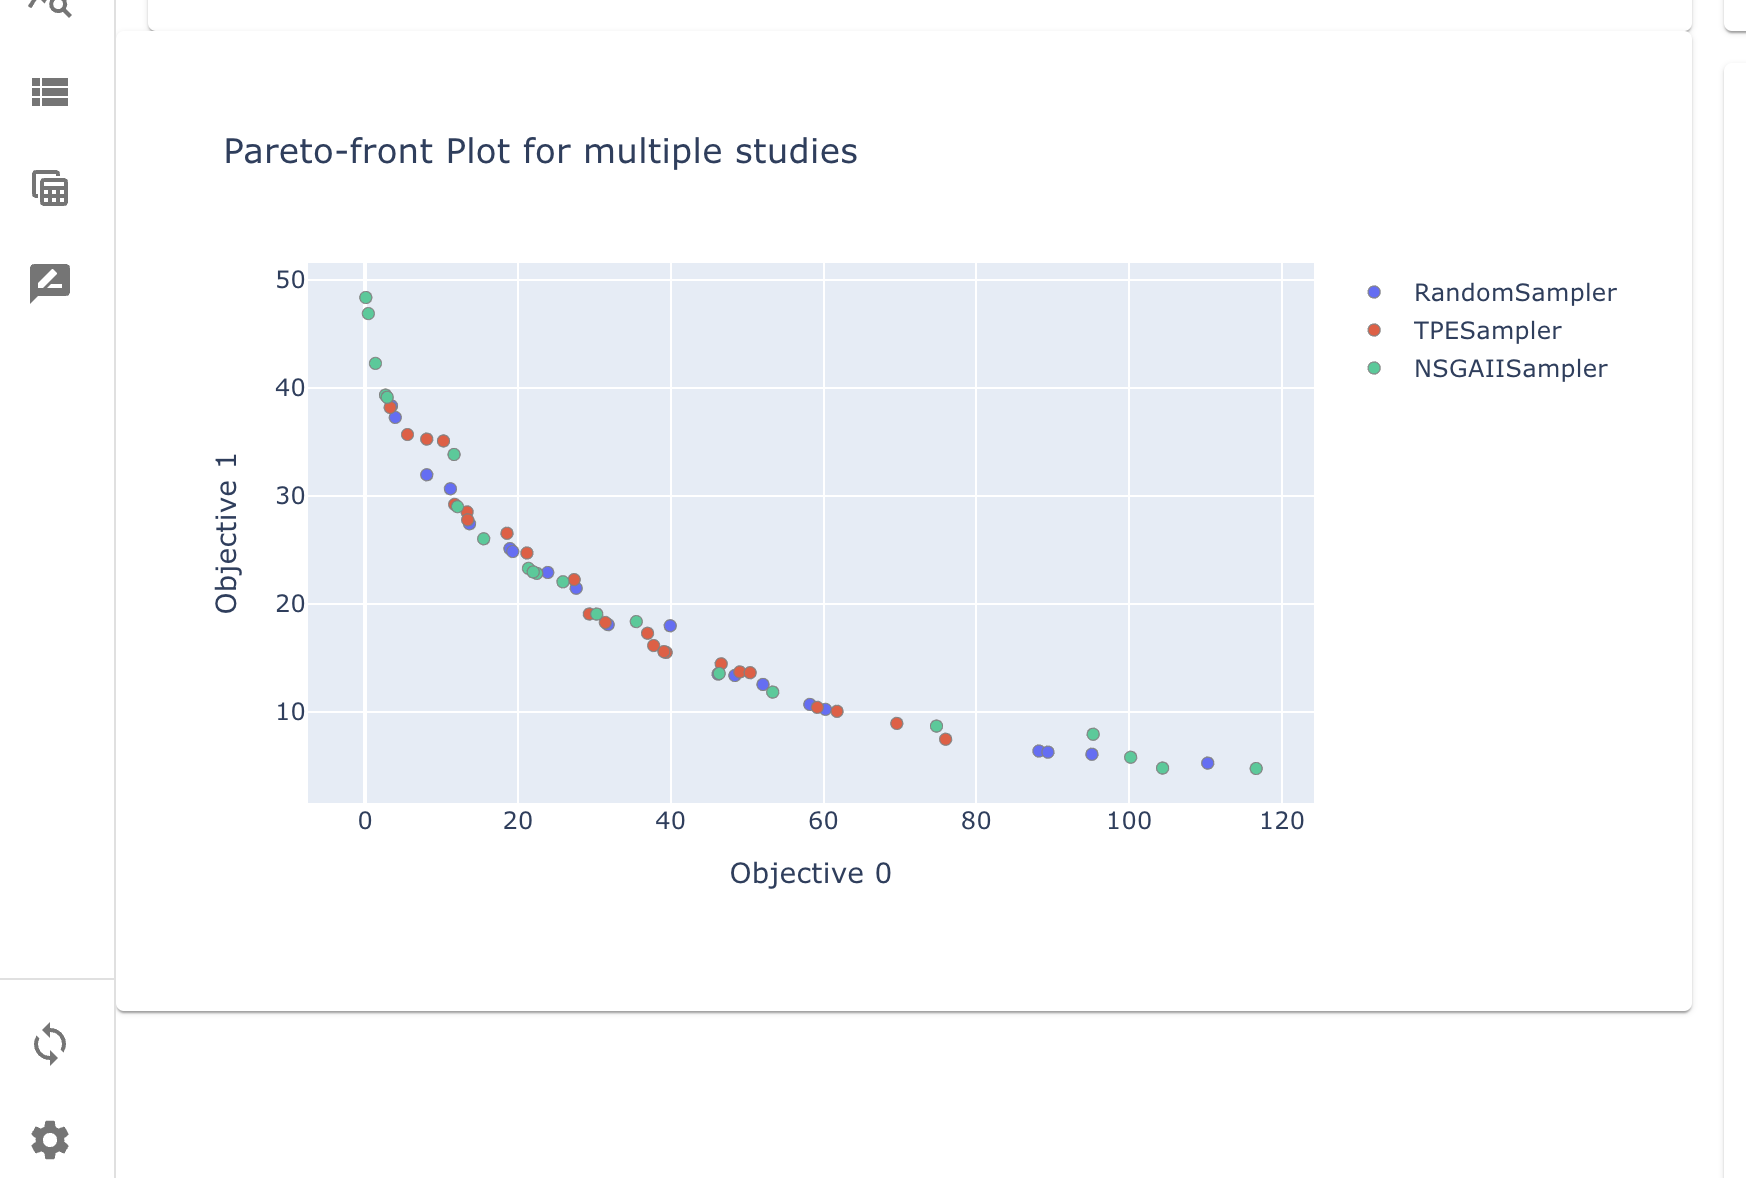
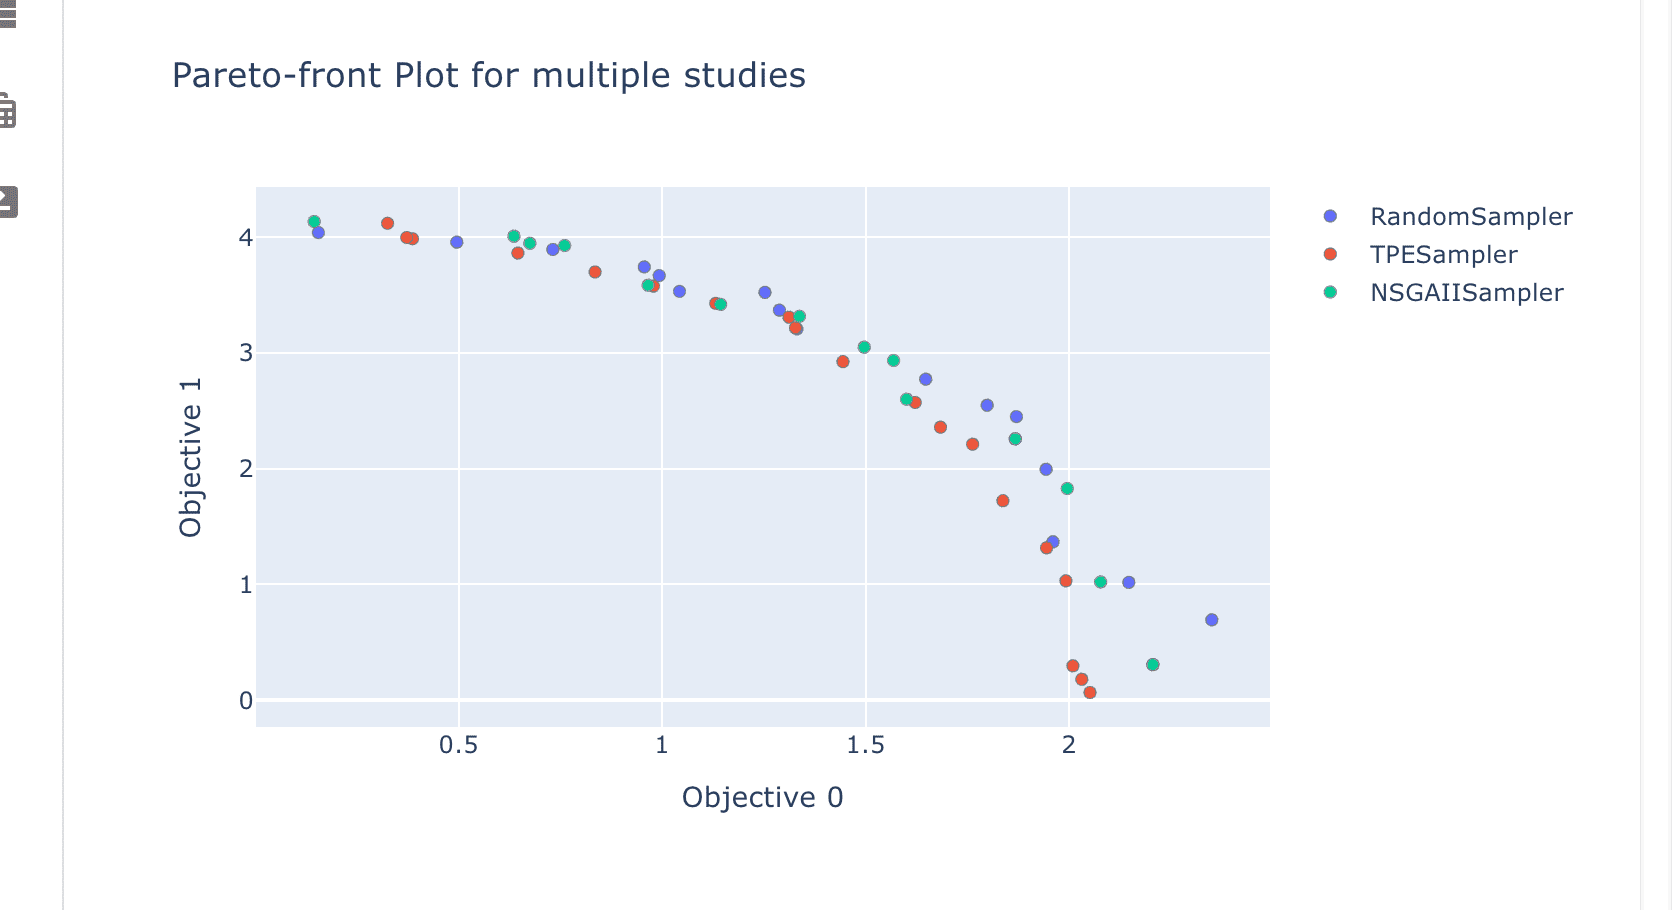
fix for feedbacks

diff --git a/docs/source/tutorials/plot-in-optuna-dashboard.rst b/docs/source/tutorials/plot-in-optuna-dashboard.rst
@@ -1,16 +1,16 @@
 Tutorial: How to Plot in Optuna-Dashboard
 =========================================
 
-In this tutorial, you can learn how to display plots in `Optuna-Dashboard <https://optuna-dashboard.readthedocs.io/en/latest/index.html>`_.
+In this tutorial, we will explain how to display plots in `Optuna-Dashboard <https://optuna-dashboard.readthedocs.io/en/latest/index.html>`_.
 
-You can use the function `optuna_dashboard.save_plotly_graph_object <https://optuna-dashboard.readthedocs.io/en/latest/_generated/optuna_dashboard.save_plotly_graph_object.html#optuna_dashboard.save_plotly_graph_object>`_ 
+`optuna_dashboard.save_plotly_graph_object <https://optuna-dashboard.readthedocs.io/en/latest/_generated/optuna_dashboard.save_plotly_graph_object.html#optuna_dashboard.save_plotly_graph_object>`__ can be used 
 to integrate and display plots generated by Optunahub modules in Optuna-Dashboard.
 
 
 Preparation
 -----------
 
-First, ensure the necessary packages are installed by executing the following command in your terminal:
+First, ensure the necessary packages are installed by executing the following command:
 
 .. code-block:: console
 
@@ -19,7 +19,7 @@ First, ensure the necessary packages are installed by executing the following co
 Example
 -------
 
-We are going to use `Plot Pareto Front for Multiple Studies <https://hub.optuna.org/visualization/plot_pareto_front_multi/>`_  as example.
+To illustrate an example, we use `The WFG Problem Collection <https://hub.optuna.org/benchmarks/wfg/>`__ and `Plot Pareto Front for Multiple Studies <https://hub.optuna.org/visualization/plot_pareto_front_multi/>`__.
 
 
 .. code-block:: python
@@ -28,15 +28,8 @@ We are going to use `Plot Pareto Front for Multiple Studies <https://hub.optuna.
     import optunahub
     from optuna_dashboard import save_plotly_graph_object
 
-
-    def objective(trial: optuna.Trial) -> tuple[float, float]:
-        x = trial.suggest_float("x", 0, 5)
-        y = trial.suggest_float("y", 0, 3)
-
-        v0 = 4 * x**2 + 4 * y**2
-        v1 = (x - 5) ** 2 + (y - 5) ** 2
-        return v0, v1
-
+    wfg = optunahub.load_module("benchmarks/wfg")
+    wfg4 = wfg.Problem(function_id=4, n_objectives=2, dimension=3, k=1)
 
     samplers = [
         optuna.samplers.RandomSampler(),
@@ -44,14 +37,15 @@ We are going to use `Plot Pareto Front for Multiple Studies <https://hub.optuna.
         optuna.samplers.NSGAIISampler(),
     ]
     studies = []
+
     for sampler in samplers:
         study = optuna.create_study(
             sampler=sampler,
-            study_name=f"{sampler.__class__.__name__}",
-            directions=["minimize", "minimize"],
-            storage=STORAGE_URL,
+            study_name=sampler.__class__.__name__,
+            directions=wfg4.directions,
+            storage="sqlite:///db.sqlite3",
         )
-        study.optimize(objective, n_trials=50)
+        study.optimize(wfg4, n_trials=100)
         studies.append(study)
 
     m = optunahub.load_module(
@@ -59,15 +53,16 @@ We are going to use `Plot Pareto Front for Multiple Studies <https://hub.optuna.
     )
     fig = m.plot_pareto_front(studies)
 
-    save_plotly_graph_object(studies[0], fig)
+    for study in studies:
+        save_plotly_graph_object(study, fig)
 
-Execute this, then start the Optuna-Dashboard by running the following command:
+After running this code, launch the Optuna-Dashboard by the following command:
 
 .. code-block:: console
 
-    $ optuna-dashboard STORAGE_URL
+    $ optuna-dashboard sqlite:///db.sqlite3
 
-Then, visit the page of the study you saved the plot.
+Then, go to one of the study pages.
 You can see the plot in the dashboard like the image below.
 
 .. figure:: ./images/plot-in-optuna-dashboard.png

diff --git a/docs/source/index.rst b/docs/source/index.rst
@@ -4,6 +4,7 @@ Welcome to OptunaHub's documentation!
 `OptunaHub <https://hub.optuna.org/>`__ is a registry of third-party packages designed for `Optuna <https://optuna.org>`__.
 It allows users to share and discover Optuna packages that are not included in the official Optuna distribution.
 The `optunahub <https://github.com/optuna/optunahub/>`_ library provides Python APIs to load and use packages from the OptunaHub registry.
+Here is `tutorial <./tutorials/index.html>`__  for OptunaHub.
 
 **If you are interested in registering your own features in OptunaHub**, please visit `the optunahub-registry repository <https://github.com/optuna/optunahub-registry>`__ and submit a pull request there. More details are available in `the optunahub-registry tutorial <https://optuna.github.io/optunahub-registry/>`__.
 
